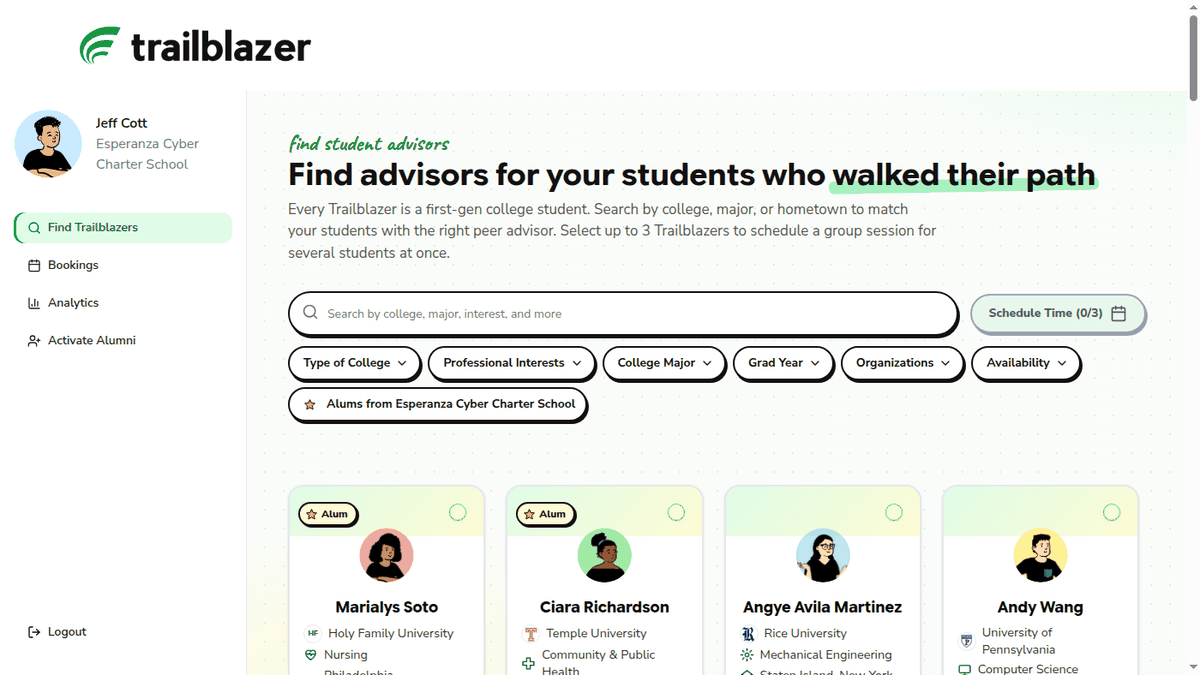
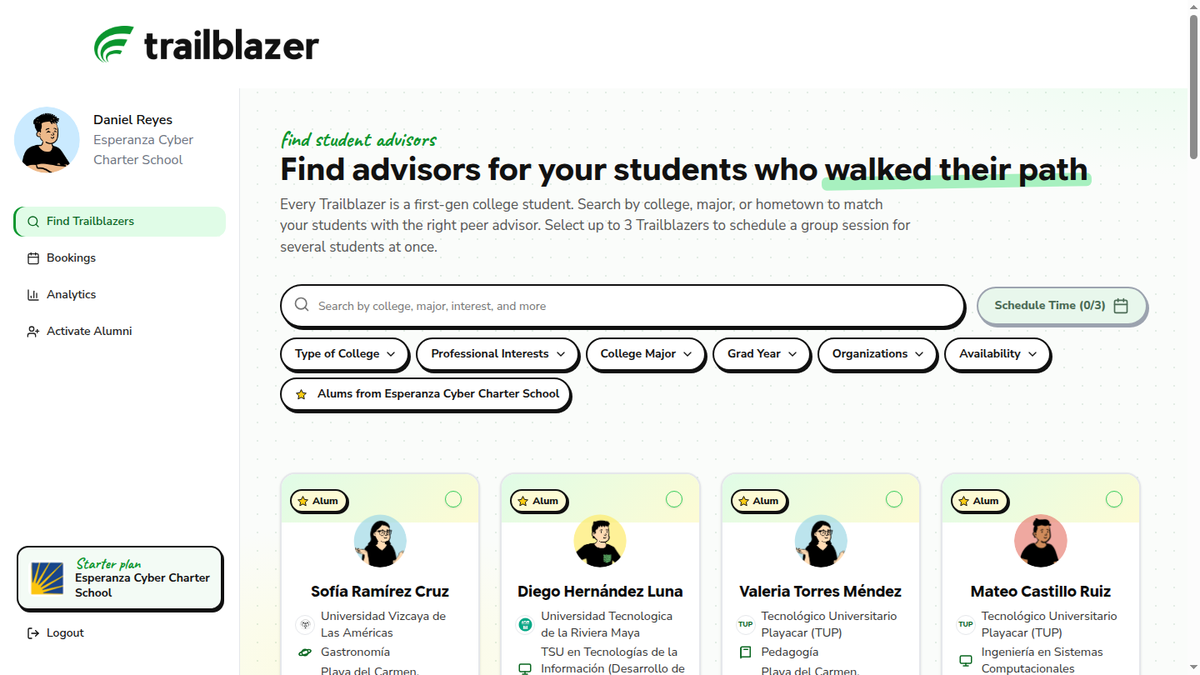
Partner page: new platform screenshots, Esperanza Cyber Charter School as org

diff --git a/partner-with-us/index.html b/partner-with-us/index.html
@@ -27,9 +27,9 @@
 <section class="sec" style="padding-top:20px"><div class="wrap"><iframe class="embed" src="../embeds/partner-value.html?v=w3t" title="partner-value" style="height:630px" loading="lazy" scrolling="no"></iframe></div><div class="hs-cta hs-cta-c"><span class="hs-note r" aria-hidden="true">let's talk!<br><small>see it in action</small></span><span class="hs-arrow" aria-hidden="true">&#10549;</span><a class="btn g" href="mailto:contact@trailblazergo.com?subject=I%20want%20to%20schedule%20a%20demo">Schedule a Demo</a></div></section>
 <section class="platform" style="padding:45px 0 10px"><div class="wrap"><h2 class="h50" style="font-weight:600">One platform, from <span class="g">student support</span><br>to <span class="g">data insights</span></h2>
 <p style="font-size:18px;line-height:25px">Students receive tools and human support in one experience while organizations gain visibility into activity, participation, and engagement.</p></div>
-<div class="pw-feat"><iframe class="embed" src="../embeds/student-experience.html?v=w3t" title="student-experience" style="height:380px" loading="lazy" scrolling="no"></iframe><div class="shot-wrap"><img class="shot" src="../assets/img/shot-college-list.png" alt="College list" loading="lazy"><svg class="ann-circ c1" viewBox="0 0 200 100" preserveAspectRatio="none" aria-hidden="true"><path d="M30 18 C 80 2, 180 6, 192 46 C 200 84, 110 98, 50 90 C 8 84, 2 50, 22 28 C 34 16, 60 10, 84 9"/></svg><span class="ann t l">a personalized college list for every student<svg class="ann-ar" viewBox="0 0 60 40" aria-hidden="true"><path d="M4 6 C 20 4, 44 10, 52 32"/><path d="M42 27 L52 33 L55 21"/></svg></span></div></div>
-<div class="pw-arrow rtl" aria-hidden="true"><svg viewBox="0 0 600 120"><path class="pa-line" d="M434 8 C 434 70, 166 44, 166 104" pathLength="1"/><path class="pa-head" d="M155 92 L166 108 L178 93"/></svg></div><div class="pw-feat rev"><div class="shot-wrap"><img class="shot" src="../assets/img/shot-advisors.png" alt="Platform" loading="lazy"><svg class="ann-circ c2" viewBox="0 0 200 100" preserveAspectRatio="none" aria-hidden="true"><path d="M30 18 C 80 2, 180 6, 192 46 C 200 84, 110 98, 50 90 C 8 84, 2 50, 22 28 C 34 16, 60 10, 84 9"/></svg><span class="ann t r">activate alumni &amp; pay them $20/hour<svg class="ann-ar" viewBox="0 0 60 40" aria-hidden="true"><path d="M4 6 C 20 4, 44 10, 52 32"/><path d="M42 27 L52 33 L55 21"/></svg></span><span class="ann b l">flexible scheduling, minimal burden on counselors<svg class="ann-ar" viewBox="0 0 60 40" aria-hidden="true"><path d="M4 6 C 20 4, 44 10, 52 32"/><path d="M42 27 L52 33 L55 21"/></svg></span></div><iframe class="embed" src="../embeds/connect-step.html?v=w3t" title="connect-step" style="height:475px" loading="lazy" scrolling="no"></iframe></div>
-<div class="pw-arrow ltr" aria-hidden="true"><svg viewBox="0 0 600 120"><path class="pa-line" d="M166 8 C 166 70, 434 44, 434 104" pathLength="1"/><path class="pa-head" d="M422 93 L434 108 L446 92"/></svg></div><div class="pw-feat"><iframe class="embed" src="../embeds/organization-experience.html?v=w3t" title="organization-experience" style="height:417px" loading="lazy" scrolling="no"></iframe><div class="shot-wrap"><img class="shot" src="../assets/img/shot-org.png" alt="Organization dashboard" loading="lazy"><svg class="ann-circ c3" viewBox="0 0 200 100" preserveAspectRatio="none" aria-hidden="true"><path d="M30 18 C 80 2, 180 6, 192 46 C 200 84, 110 98, 50 90 C 8 84, 2 50, 22 28 C 34 16, 60 10, 84 9"/></svg><span class="ann t r">track session participation<br>in real-time<svg class="ann-ar" viewBox="0 0 60 40" aria-hidden="true"><path d="M4 6 C 20 4, 44 10, 52 32"/><path d="M42 27 L52 33 L55 21"/></svg></span></div></div></section>
+<div class="pw-feat"><iframe class="embed" src="../embeds/student-experience.html?v=w3t" title="student-experience" style="height:380px" loading="lazy" scrolling="no"></iframe><div class="shot-wrap"><img class="shot" src="../assets/img/shot-college-list.png?v=esp1" alt="College list" loading="lazy"><svg class="ann-circ c1" viewBox="0 0 200 100" preserveAspectRatio="none" aria-hidden="true"><path d="M30 18 C 80 2, 180 6, 192 46 C 200 84, 110 98, 50 90 C 8 84, 2 50, 22 28 C 34 16, 60 10, 84 9"/></svg><span class="ann t l">a personalized college list for every student<svg class="ann-ar" viewBox="0 0 60 40" aria-hidden="true"><path d="M4 6 C 20 4, 44 10, 52 32"/><path d="M42 27 L52 33 L55 21"/></svg></span></div></div>
+<div class="pw-arrow rtl" aria-hidden="true"><svg viewBox="0 0 600 120"><path class="pa-line" d="M434 8 C 434 70, 166 44, 166 104" pathLength="1"/><path class="pa-head" d="M155 92 L166 108 L178 93"/></svg></div><div class="pw-feat rev"><div class="shot-wrap"><img class="shot" src="../assets/img/shot-advisors.png?v=esp1" alt="Platform" loading="lazy"><svg class="ann-circ c2" viewBox="0 0 200 100" preserveAspectRatio="none" aria-hidden="true"><path d="M30 18 C 80 2, 180 6, 192 46 C 200 84, 110 98, 50 90 C 8 84, 2 50, 22 28 C 34 16, 60 10, 84 9"/></svg><span class="ann t r">activate alumni &amp; pay them $20/hour<svg class="ann-ar" viewBox="0 0 60 40" aria-hidden="true"><path d="M4 6 C 20 4, 44 10, 52 32"/><path d="M42 27 L52 33 L55 21"/></svg></span><span class="ann b l">flexible scheduling, minimal burden on counselors<svg class="ann-ar" viewBox="0 0 60 40" aria-hidden="true"><path d="M4 6 C 20 4, 44 10, 52 32"/><path d="M42 27 L52 33 L55 21"/></svg></span></div><iframe class="embed" src="../embeds/connect-step.html?v=w3t" title="connect-step" style="height:475px" loading="lazy" scrolling="no"></iframe></div>
+<div class="pw-arrow ltr" aria-hidden="true"><svg viewBox="0 0 600 120"><path class="pa-line" d="M166 8 C 166 70, 434 44, 434 104" pathLength="1"/><path class="pa-head" d="M422 93 L434 108 L446 92"/></svg></div><div class="pw-feat"><iframe class="embed" src="../embeds/organization-experience.html?v=w3t" title="organization-experience" style="height:417px" loading="lazy" scrolling="no"></iframe><div class="shot-wrap"><img class="shot" src="../assets/img/shot-org.png?v=esp1" alt="Organization dashboard" loading="lazy"><svg class="ann-circ c3" viewBox="0 0 200 100" preserveAspectRatio="none" aria-hidden="true"><path d="M30 18 C 80 2, 180 6, 192 46 C 200 84, 110 98, 50 90 C 8 84, 2 50, 22 28 C 34 16, 60 10, 84 9"/></svg><span class="ann t r">track session participation<br>in real-time<svg class="ann-ar" viewBox="0 0 60 40" aria-hidden="true"><path d="M4 6 C 20 4, 44 10, 52 32"/><path d="M42 27 L52 33 L55 21"/></svg></span></div></div></section>
 <section class="sec-partners" aria-labelledby="partners-h"><div class="wrap" style="max-width:1140px"><h2 id="partners-h" class="sec-head"><span class="scrib">real schools, real impact</span>Trusted by partners in the <span class="accent">US and Mexico</span></h2>
 <div class="car" data-carousel tabindex="0" role="region" aria-roledescription="carousel" aria-label="Partner organizations" data-autoplay="5000">
 <div class="car-vp"><div class="car-track"><div class="car-slide"><article class="pslide"><img class="bg" src="../assets/img/partner-osage.webp" alt="Osage Nation landscape" loading="lazy"><img class="state" src="../assets/states/ok.svg" alt="" aria-hidden="true" loading="lazy" decoding="async">
